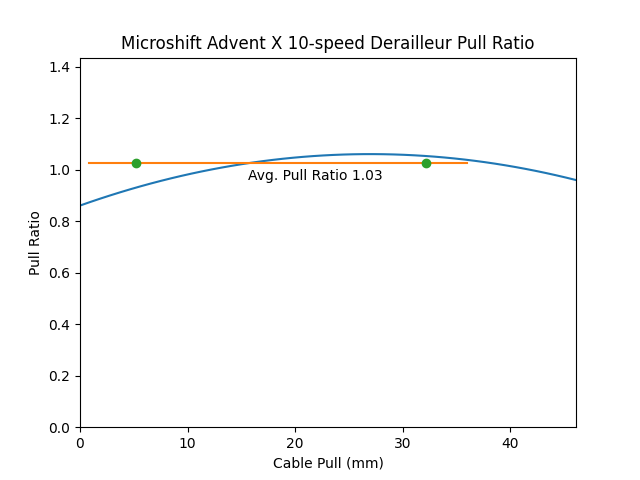
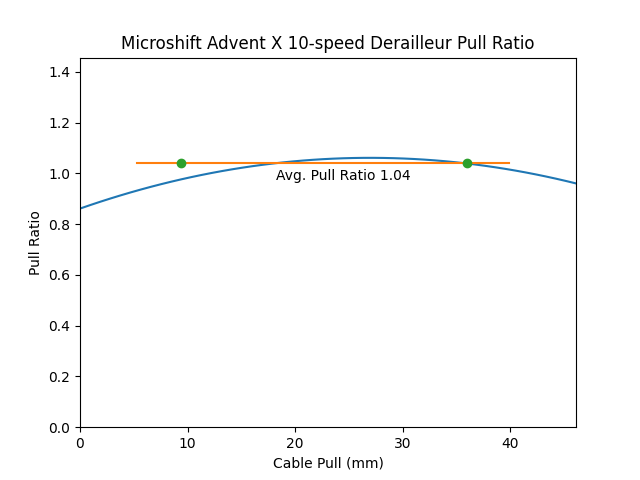
Tweak

diff --git a/derailleurs/Microshift RD-M6205AM/default.htm b/derailleurs/Microshift RD-M6205AM/default.htm
@@ -21,7 +21,7 @@ Microshift Advent X 10-Speed
   </tr>
   <tr>
     <th>Pull Ratio</th>
-    <td>1.03</td>
+    <td>1.04</td>
   </tr>
   <tr>
     <th>Curve Coefficients</th>
@@ -37,19 +37,19 @@ Microshift Advent X 10-Speed
   </tr>
   <tr>
     <th>Pull Ratio Averaged Across Pulling Runs</th>
-    <td>1.030 +/- 0.000</td>
+    <td>1.041 +/- 0.000</td>
   </tr>
   <tr>
     <th>Pull Ratio Averaged Across Relaxing Runs</th>
-    <td>1.022 +/- 0.000</td>
+    <td>1.038 +/- 0.000</td>
   </tr>
   <tr>
     <th>Pull Ratio Averaged Across All Runs</th>
-    <td>1.026 +/- 0.008</td>
+    <td>1.040 +/- 0.003</td>
   </tr>
   <tr>
     <th>Pull Ratio 95% Confidence Interval</th>
-    <td>1.018 to 1.033</td>
+    <td>1.037 to 1.043</td>
   </tr>
   
   
